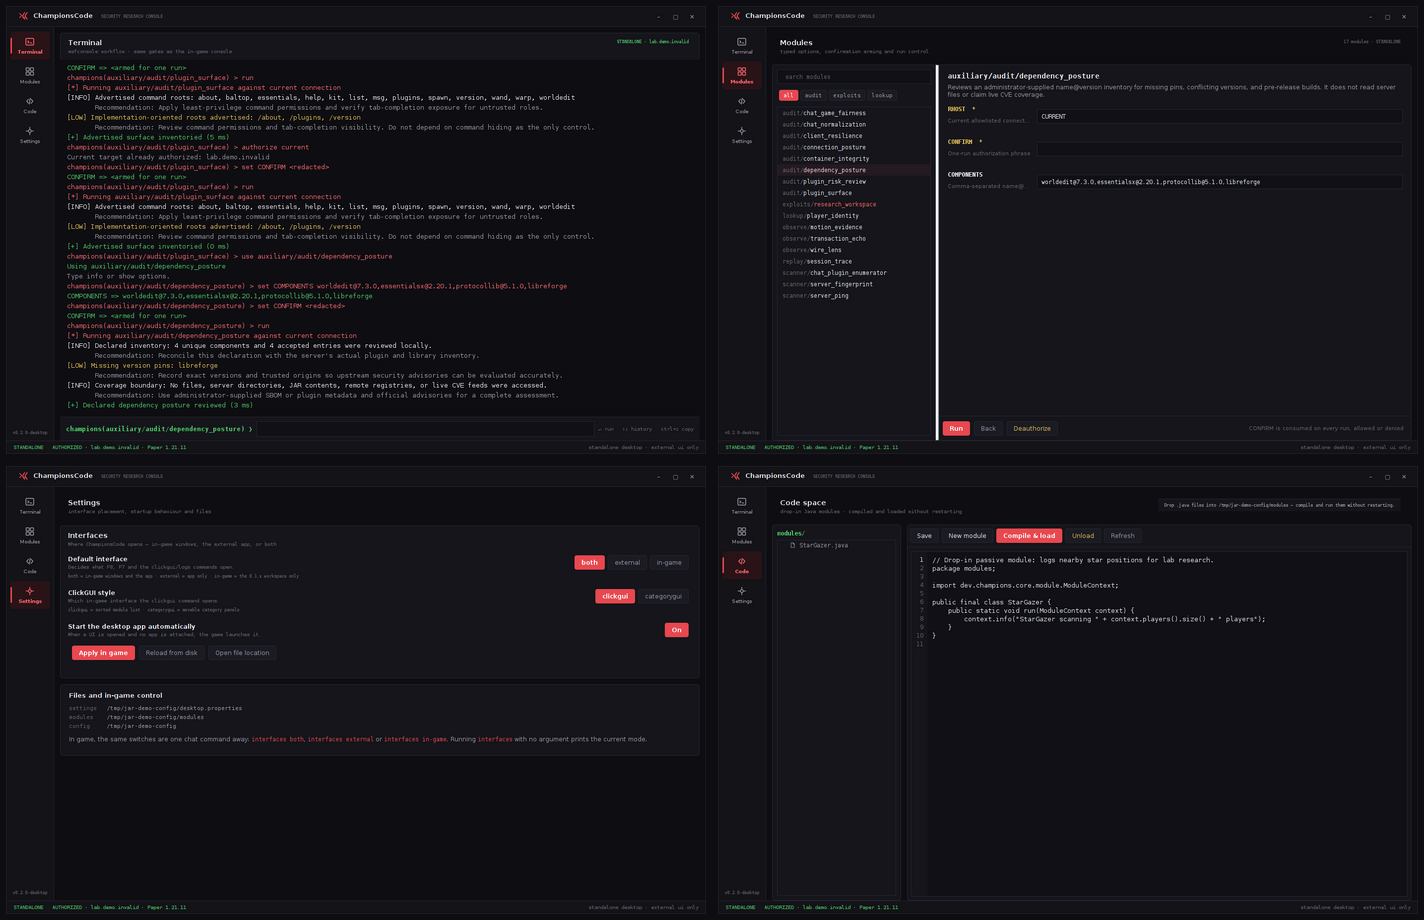
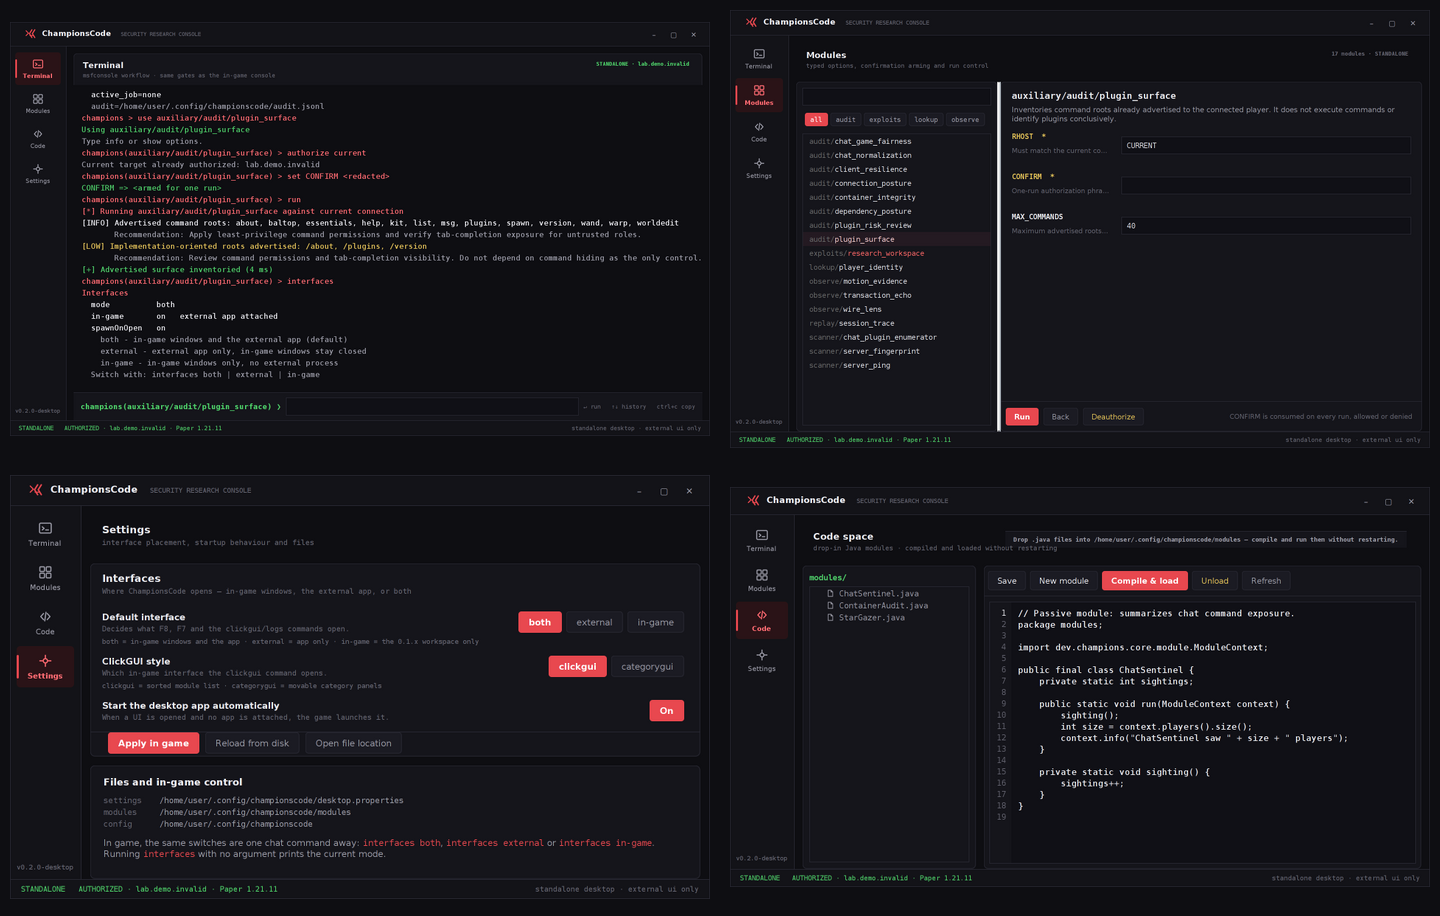
desktop: fix clipped settings rows, theme editor scrollbars, refresh screenshots
The interface card scrolled its own rows inside a fixed height, which pushed
the third switch under the action bar and left a stray scrollbar on the right.
Rows are plain rows again, the buttons live in a pinned footer, and the card
sizes to its content.

The code editor and tree showed the platform's light 3D scrollbar; both now use
the flat dark bar from Theme.

Screenshots in docs/branding were recaptured from the shipped JAR at 2x UI
scale against the simulated demo target, including the new settings page.

diff --git a/src/main/java/dev/champions/desktop/SettingsPanel.java b/src/main/java/dev/champions/desktop/SettingsPanel.java
@@ -5,7 +5,6 @@ import javax.swing.Box;
 import javax.swing.BoxLayout;
 import javax.swing.JLabel;
 import javax.swing.JPanel;
-import javax.swing.JScrollPane;
 import javax.swing.JTextArea;
 import java.awt.BorderLayout;
 import java.awt.Component;
@@ -33,6 +32,7 @@ public final class SettingsPanel extends JPanel {
 
 	private final ConsolePort port;
 	private final Path configFile;
+	/** Switch rows: one fixed row per setting, each as wide as the card. */
 	private final JPanel rows = new JPanel();
 	private final JLabel note = new JLabel(" ");
 
@@ -42,24 +42,25 @@ public final class SettingsPanel extends JPanel {
 		this.configFile = configDirectory.resolve("desktop.properties");
 		setOpaque(false);
 
-		rows.setLayout(new BoxLayout(rows, BoxLayout.Y_AXIS));
+		rows.setLayout(new java.awt.GridBagLayout());
 		rows.setOpaque(false);
+		rows.setBorder(BorderFactory.createEmptyBorder(6, 0, 8, 0));
 
 		JPanel card = Theme.card(new BorderLayout());
-		card.setMaximumSize(new Dimension(Integer.MAX_VALUE, 330));
 		card.add(Theme.header("Interfaces", "Where ChampionsCode opens — in-game windows, the external app, or both"),
 			BorderLayout.NORTH);
-		JScrollPane scroll = new JScrollPane(rows,
-			JScrollPane.VERTICAL_SCROLLBAR_AS_NEEDED, JScrollPane.HORIZONTAL_SCROLLBAR_NEVER);
-		scroll.setBorder(BorderFactory.createEmptyBorder());
-		scroll.setOpaque(false);
-		scroll.getViewport().setOpaque(false);
-		card.add(scroll, BorderLayout.CENTER);
+		card.add(rows, BorderLayout.CENTER);
 
 		note.setFont(Theme.mono(10));
 		note.setForeground(Theme.FAINT);
-		note.setBorder(Theme.padding(8, 16, 12, 16));
-		card.add(note, BorderLayout.SOUTH);
+		note.setBorder(Theme.padding(4, 12, 10, 16));
+
+		JPanel footer = new JPanel(new BorderLayout());
+		footer.setOpaque(false);
+		footer.setBorder(BorderFactory.createMatteBorder(1, 0, 0, 0, Theme.BORDER));
+		footer.add(actions(), BorderLayout.WEST);
+		footer.add(note, BorderLayout.CENTER);
+		card.add(footer, BorderLayout.SOUTH);
 
 		// Both cards size to their content and stack from the top, so the page
 		// does not turn into one tall box of empty space on a large screen.
@@ -90,21 +91,17 @@ public final class SettingsPanel extends JPanel {
 		String clickGui = properties.getProperty("clickgui", "clickgui").strip().toLowerCase(java.util.Locale.ROOT);
 
 		rows.removeAll();
-		rows.add(segmented("Default interface",
+		addRow(segmented("Default interface",
 			"Decides what F8, F7 and the clickgui/logs commands open.",
 			UI_MODES, ui, value -> write("ui", value)));
-		rows.add(hint("both = in-game windows and the app · external = app only · in-game = the 0.1.x workspace only"));
-		rows.add(Box.createVerticalStrut(6));
-		rows.add(segmented("ClickGUI style",
+		addRow(hint("both = in-game windows and the app · external = app only · in-game = the 0.1.x workspace only"));
+		addRow(segmented("ClickGUI style",
 			"Which in-game interface the clickgui command opens.",
 			CLICKGUI_MODES, clickGui, value -> write("clickgui", value)));
-		rows.add(hint("clickgui = sorted module list · categorygui = movable category panels"));
-		rows.add(Box.createVerticalStrut(6));
-		rows.add(toggle("Start the desktop app automatically",
+		addRow(hint("clickgui = sorted module list · categorygui = movable category panels"));
+		addRow(toggle("Start the desktop app automatically",
 			"When a UI is opened and no app is attached, the game launches it.",
 			spawn, value -> write("spawnOnOpen", Boolean.toString(value))));
-		rows.add(Box.createVerticalStrut(10));
-		rows.add(actions());
 		rows.revalidate();
 		rows.repaint();
 	}
@@ -163,6 +160,17 @@ public final class SettingsPanel extends JPanel {
 		row.add(path, BorderLayout.CENTER);
 		row.setMaximumSize(new Dimension(Integer.MAX_VALUE, 20));
 		return row;
+	}
+
+	/** Adds one switch row, stacked below the previous one at its natural height. */
+	private void addRow(JPanel row) {
+		java.awt.GridBagConstraints constraints = new java.awt.GridBagConstraints();
+		constraints.gridx = 0;
+		constraints.gridy = rows.getComponentCount();
+		constraints.weightx = 1;
+		constraints.fill = java.awt.GridBagConstraints.HORIZONTAL;
+		constraints.anchor = java.awt.GridBagConstraints.NORTH;
+		rows.add(row, constraints);
 	}
 
 	private JPanel segmented(String title, String description, List<String> options, String current,
@@ -228,8 +236,8 @@ public final class SettingsPanel extends JPanel {
 	private JPanel row(String title, String description) {
 		JPanel row = new JPanel(new BorderLayout(16, 0));
 		row.setOpaque(false);
-		row.setBorder(Theme.padding(6, 16, 6, 16));
-		row.setMaximumSize(new Dimension(Integer.MAX_VALUE, 62));
+		row.setBorder(Theme.padding(5, 16, 5, 16));
+		row.setMaximumSize(new Dimension(Integer.MAX_VALUE, 58));
 		row.setAlignmentX(Component.LEFT_ALIGNMENT);
 
 		JPanel text = new JPanel(new BorderLayout(0, 2));

diff --git a/CHANGELOG.md b/CHANGELOG.md
@@ -14,6 +14,14 @@
   autostart toggle, the file locations, and the exact chat command to do the same
   in game.
 
+### Fixed
+- **Settings rows no longer clip.** The interface card used a scrolling column
+  with a fixed height, so the third switch could end up under the action bar and
+  a stray scrollbar appeared. The rows are plain rows again, sized by the card;
+  the buttons moved into a pinned footer.
+- **Editor scrollbars are themed.** The platform's light 3D scrollbar showed up
+  under the code editor and beside the tree; both now use a flat 10 px dark bar.
+
 ### Changed
 - **New desktop look.** One frameless window (`Shell`) with a drawn title bar
   (brand mark, minimise / maximise / close), a 96 px icon rail, rounded cards,
